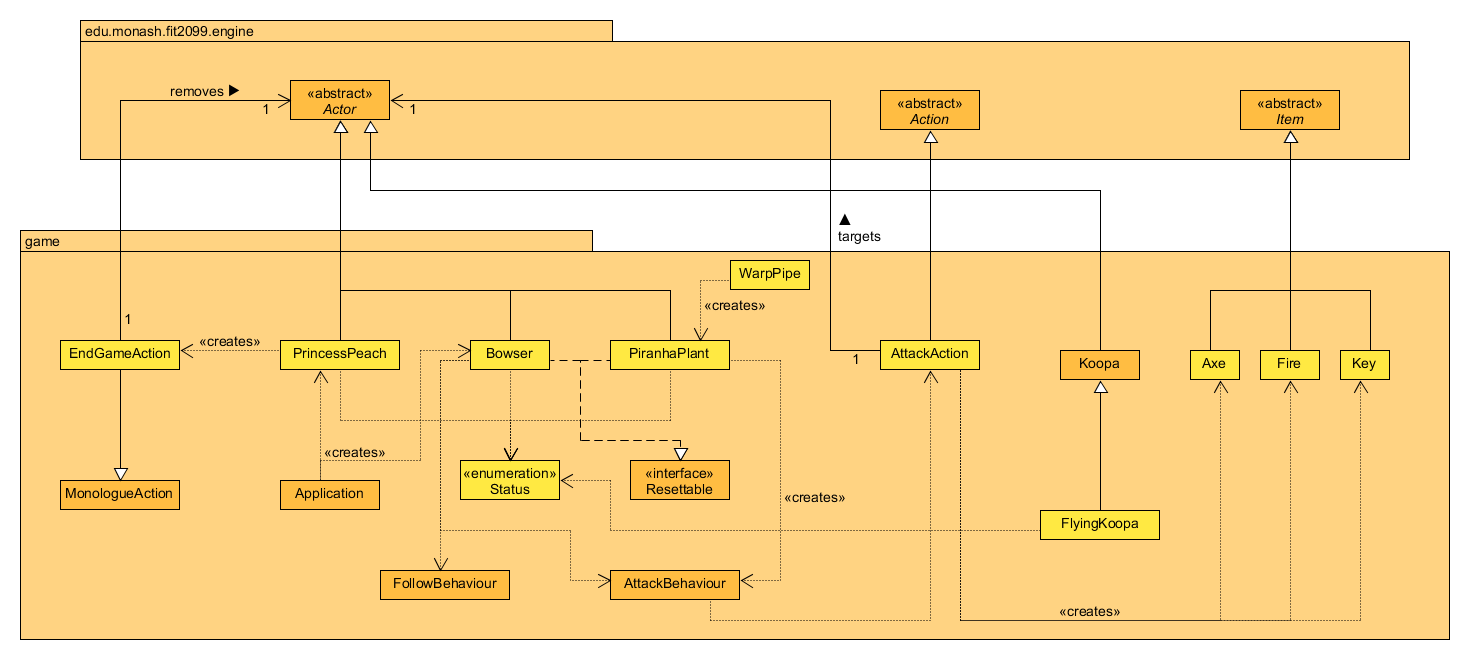
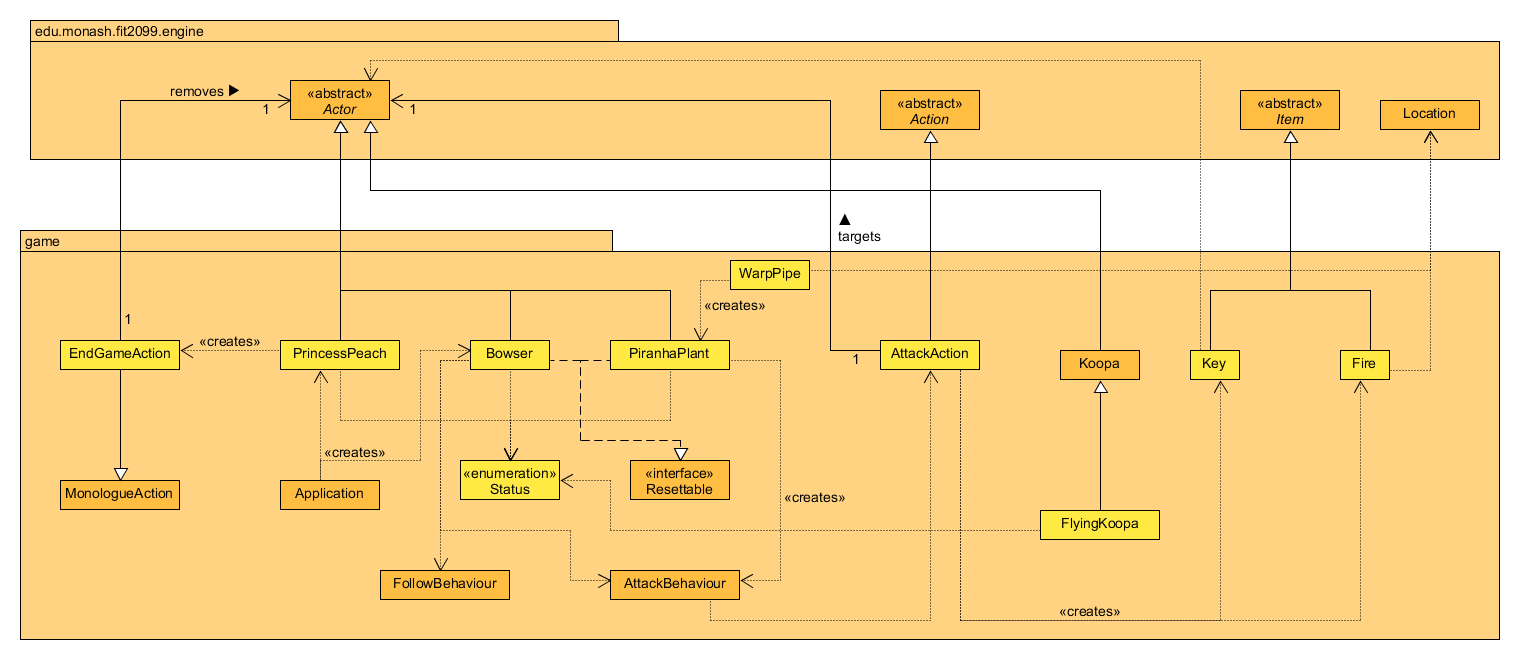
Updated new REQ2 class and sequence diagram and Fire class, added 1 sequence diagram for new REQ2

diff --git a/src/game/items/Fire.java b/src/game/items/Fire.java
@@ -26,17 +26,17 @@ public class Fire extends Item{
 
     @Override
     public void tick(Location currentLocation) {
-        Actor player;
+        Actor actor;
         age++;
         if (currentLocation.containsAnActor()){
-            player = currentLocation.getActor();
-            player.hurt(20);
+            actor = currentLocation.getActor();
+            actor.hurt(20);
 
-            if (!player.isConscious()) {
-                if (player.hasCapability(Status.FIRE_BREATHER)){
+            if (!actor.isConscious()) {
+                if (actor.hasCapability(Status.FIRE_BREATHER)){
                     currentLocation.addItem(new Key());
                 }
-                currentLocation.map().removeActor(player);
+                currentLocation.map().removeActor(actor);
             }
         }
         if (age >= EXPIRY_TURNS) {

diff --git a/design-docs/Ass3_REQ2_DesignRationale.md b/design-docs/Ass3_REQ2_DesignRationale.md
@@ -6,7 +6,7 @@ For reference here are the class and sequence diagrams.
 
 ![ass3 req2 class diagram](./Ass3_REQ2_class.png "Ass3 REQ2 Class Diagram")
 
-## Sequence Diagram
+## Sequence Diagrams
 
 ![ass3 req2 sequence diagram](./Ass3_REQ2_sequence.png "Ass3 REQ2 Sequence Diagram")
 

diff --git a/design-docs/Ass3_REQ4_DesignRationale.md b/design-docs/Ass3_REQ4_DesignRationale.md
@@ -1,0 +1,14 @@
+# REQ 4: Minecraft Design Rationale
+
+For reference here are the class and sequence diagrams.
+
+## Class Diagram
+
+![ass3 req4 class diagram]()
+
+## Sequence Diagram
+
+![ass3 req4 sequence diagram]()
+
+## Rationale
+
